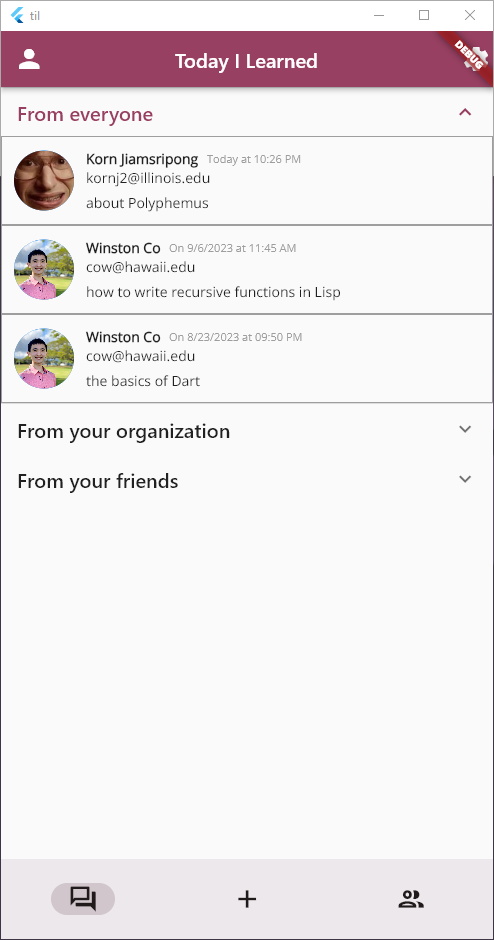
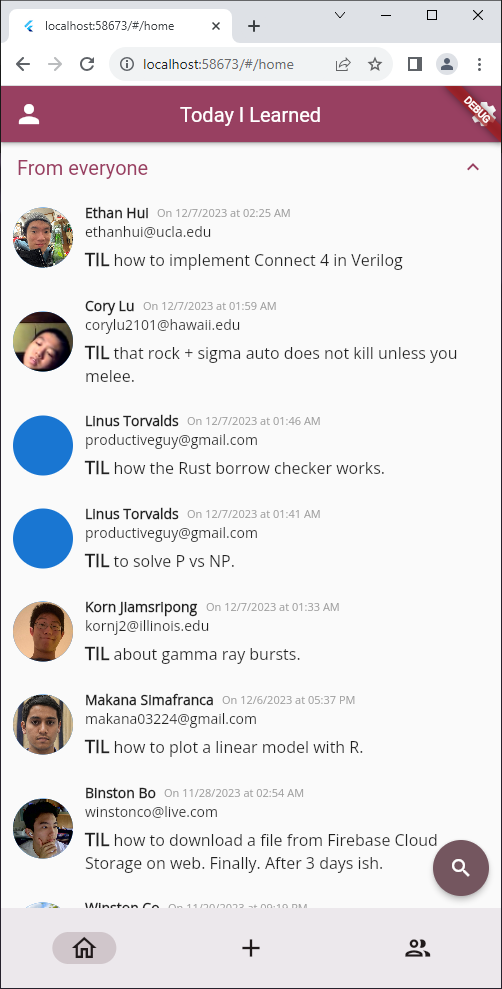
added pages pictures and descriptions

diff --git a/index.md b/index.md
@@ -7,9 +7,9 @@
 - [Motivation](#motivation)
 - [Goals](#goals)
 - [Usage](#usage)
+  - [Pages](#pages)
 - [Installation](#installation)
 - [Development Status](#development-status)
-  - [Example pages](#example-pages)
 - [About Us](#about-us)
   - [Winston Co](#winston-co)
 
@@ -63,6 +63,29 @@ When users register an account, they must provide the email tied to their organi
 
 When new organizations are integrated with the app, a base administrator account is created that can manage the organization within the app. When making a new admin account, it must be approved by another admin account from the same  organization.
 
+### Pages
+
+<img src="/assets/images/home.png" alt="Home Page" />
+<img src="/assets/images/home-2.png" alt="Home Page filtered by friends" />
+<img src="/assets/images/search-user.png" alt="Search User Page" />
+
+On the home page, you can see posts from other users, filtered by various categories (e.g. From your friends). By clicking on the search icon in the bottom-right, you can navigate to a search page where you can search for specific users by name.
+
+<img src="/assets/images/my-profile.png" alt="My Profile Page" />
+<img src="/assets/images/other-profile.png" alt="Other Page" />
+
+Of course, you can see the details of a user, on either your own profile or the profile of another user. You can see all their posts and the organization their account is tied to. And if you aren't friends with them yet, here you can send another user a friend request.
+
+<img src="/assets/images/friends.png" alt="Friends Page" />
+
+On your friends page, you can see your list of friends.
+
+In the future, you will see a list of suggested users, who recently made posts about similar topics as you. If allowed, it will also look at your contacts for other profiles.
+
+<img src="/assets/images/new-post.png" alt="New Post Page" />
+
+And of course, you can make posts of your own by clicking the **+** icon at the bottom.
+
 ## Installation
 
 _Make sure Flutter is installed locally._
@@ -80,12 +103,6 @@ Or [open with GitHub Desktop](x-github-client://openRepo/https://github.com/tila
 ## Development Status
 
 [https://github.com/orgs/tilapp/projects/1/views/1](https://github.com/orgs/tilapp/projects/1/views/1)
-
-### Example pages
-
-<img src="/assets/images/home.png" alt="Home Page" />
-<img src="/assets/images/my-profile.png" alt="My Profile Page" />
-<img src="/assets/images/new-post.png" alt="New Post Page" />
 
 ## About Us
 
